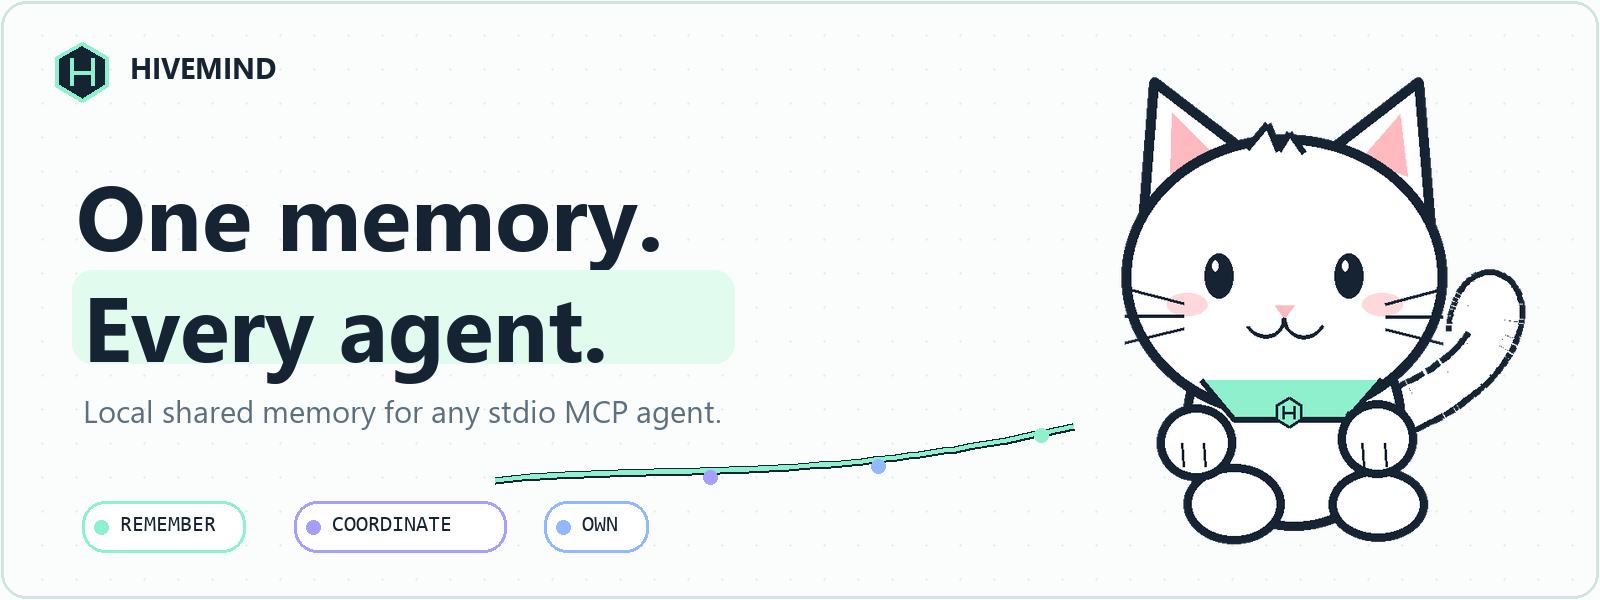
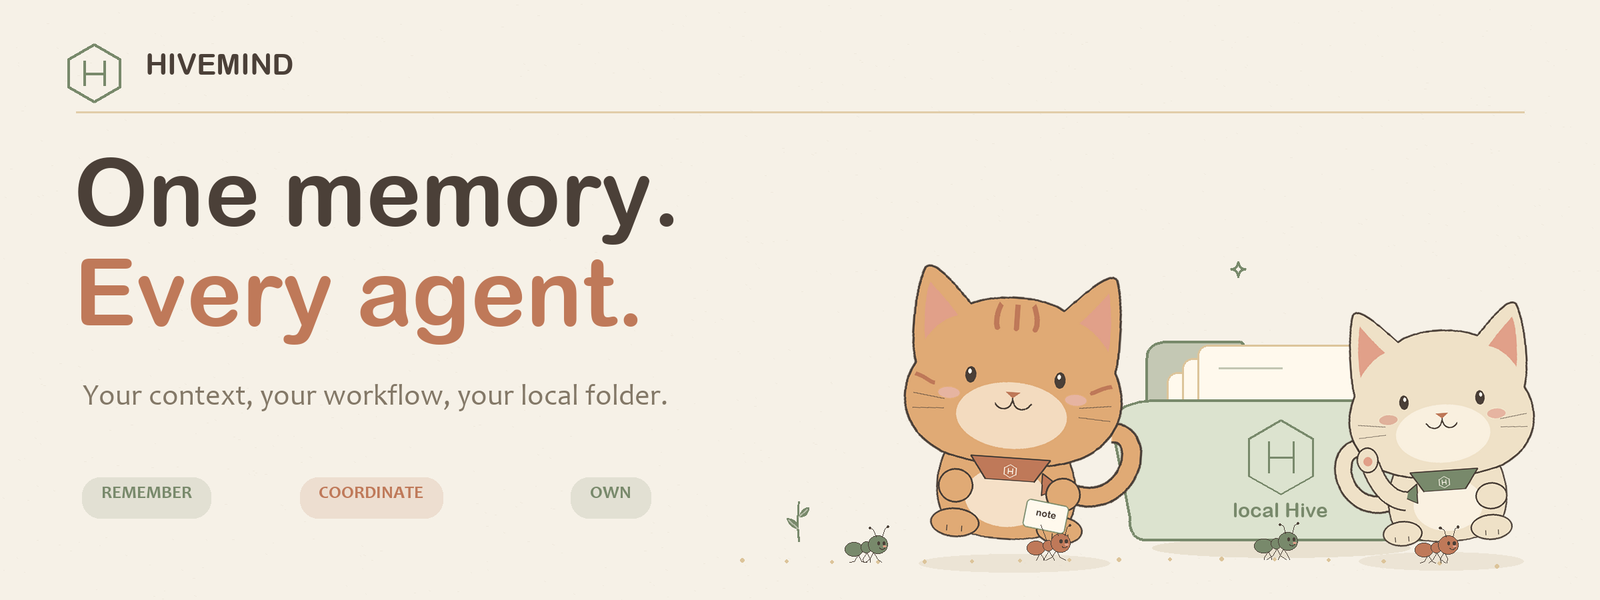
Refresh README with earthy cats and ants media

diff --git a/README.md b/README.md
@@ -1,6 +1,6 @@
 <div align="center">
 
-![HiveMind cat — One memory. Every agent.](docs/assets/hivemind-cat-banner.png)
+![HiveMind cats and ants carrying notes to a local Hive — One memory. Every agent.](docs/assets/hivemind-cat-banner.png)
 
 **Local shared memory and coordination for any stdio MCP agent.**<br>
 Guided setup registers recognized agent CLIs; other compatible clients connect manually.
@@ -16,17 +16,19 @@ Keep your preferences, project context, and hard-won solutions in one local fold
 
 ## The idea
 
+![An orange cat and tiny ants introduce HiveMind's shared local memory](docs/assets/hivemind-opening.gif)
+
 You finish a task with one agent. Later, another agent opens the same project
 and retrieves what changed, why it changed, and what still needs attention. In
 your next project, confirmed preferences and relevant solutions are available
 again.
 
-![The cat starts a task with an agent, recording a decision, a verified check, and a checkpoint](docs/assets/hivemind-task.gif)
+![A cat saves useful decisions, preferences, and verified fixes while ants carry a note to the local Hive](docs/assets/hivemind-remember.gif)
 
 HiveMind makes that handoff possible through **shared files and a local MCP server**.
 It gives each agent a small, relevant brief and a place to save what it learns.
 
-![The cat delivers a concise project-aware brief to the next agent](docs/assets/hivemind-handoff.gif)
+![An ant carries a brief to the next cat, showing the project decision, preference, verified fix, and latest handoff](docs/assets/hivemind-handoff.gif)
 
 **HiveMind is single-device software.** One Markdown vault and one SQLite database
 serve the agents working on that computer. There is no device-sync requirement,
@@ -41,8 +43,6 @@ product.
 | Confirmed preferences across projects | Tasks with explicit ownership | Local SQLite task history |
 | Project decisions and verified solutions | Concise, persistent handoffs | Portable backups without hosting |
 | Saved note versions and local audits | Searchable task and session history | One SQLite authority on this device |
-
-![The cat gathers decisions, preferences, verified fixes, and handoffs into local Markdown memory](docs/assets/hivemind-remember.gif)
 
 **Now with budgeted briefs and resumable sessions:** select a context budget,
 retrieve complete project-aware excerpts, and carry structured checkpoints between
@@ -242,7 +242,7 @@ check its live session.
 
 ## How it works
 
-![The cat moves between owned tasks, checkpoints, and handoffs for three illustrative agents](docs/assets/hivemind-coordinate.gif)
+![Cats coordinate an owned task while ants carry a checkpoint and the next step](docs/assets/hivemind-coordinate.gif)
 
 ```mermaid
 flowchart TB
@@ -338,7 +338,7 @@ reads have not yet been measured in a paid-agent task.
 
 ## Your memory
 
-![The cat opens a local Hive folder containing editable notes and task history](docs/assets/hivemind-own.gif)
+![Cats inspect an editable Markdown note, local SQLite task history, and a portable backup](docs/assets/hivemind-own.gif)
 
 ```text
 HiveMind/
@@ -497,7 +497,7 @@ their own licenses.
 
 <div align="center">
 
-![The cat waves beside the HiveMind mark and the One memory. Every agent. tagline](docs/assets/hivemind-closing.gif)
+![Cats and ants gather around the local Hive beneath the One memory. Every agent. tagline](docs/assets/hivemind-closing.gif)
 
 **Keep the context. Carry the learning. Choose the agent.**
 
